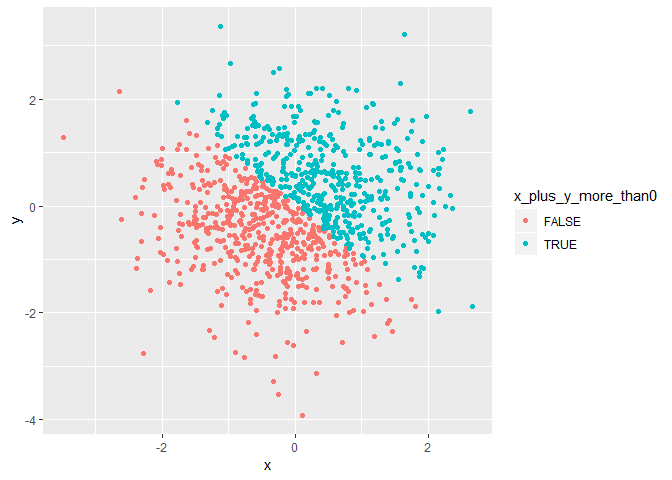
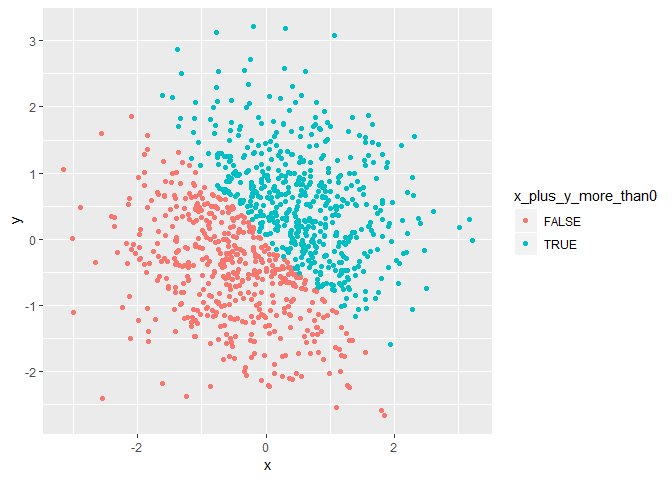
delete test run in P2

diff --git a/P8105_hw1_jy2947.md b/P8105_hw1_jy2947.md
@@ -19,7 +19,7 @@ dataframe = tibble(
 mean(dataframe$sample)
 ```
 
-    ## [1] 2.473455
+    ## [1] 2.44156
 
 ``` r
 mean(dataframe$morethan2)
@@ -104,31 +104,9 @@ norm_distri = tibble(
   p2_num = as.numeric(x_plus_y_more_than0),
   p2_fac = as.factor(x_plus_y_more_than0)
 )
-norm_distri
 ```
 
-    ## # A tibble: 1,000 x 5
-    ##         x      y x_plus_y_more_than0 p2_num p2_fac
-    ##     <dbl>  <dbl> <lgl>                <dbl> <fct> 
-    ##  1  0.520  1.31  TRUE                     1 TRUE  
-    ##  2  0.799 -1.36  FALSE                    0 FALSE 
-    ##  3  0.244 -0.811 FALSE                    0 FALSE 
-    ##  4 -0.739  1.18  TRUE                     1 TRUE  
-    ##  5 -0.867 -1.26  FALSE                    0 FALSE 
-    ##  6 -0.686 -0.949 FALSE                    0 FALSE 
-    ##  7 -0.293 -2.81  FALSE                    0 FALSE 
-    ##  8  0.113 -3.91  FALSE                    0 FALSE 
-    ##  9  1.36   0.917 TRUE                     1 TRUE  
-    ## 10  0.211 -0.528 FALSE                    0 FALSE 
-    ## # ... with 990 more rows
-
-``` r
-object.size(norm_distri)
-```
-
-    ## 33896 bytes
-
-The size of the dataset is 3.389610^{4}. The mean of x is -0.0275278. The median of x is -0.0525411. The proportion of cases for which the logical vector is `TRUE` is 0.482.
+The size of the dataset is 3.389610^{4}. The mean of x is 0.0168009. The median of x is 0.0401466. The proportion of cases for which the logical vector is `TRUE` is 0.515.
 
 The following code chunk creates the scatter plot of `x_plus_y_more_than0` in `norm_distri` and saves the plot in a pdf file.
 
